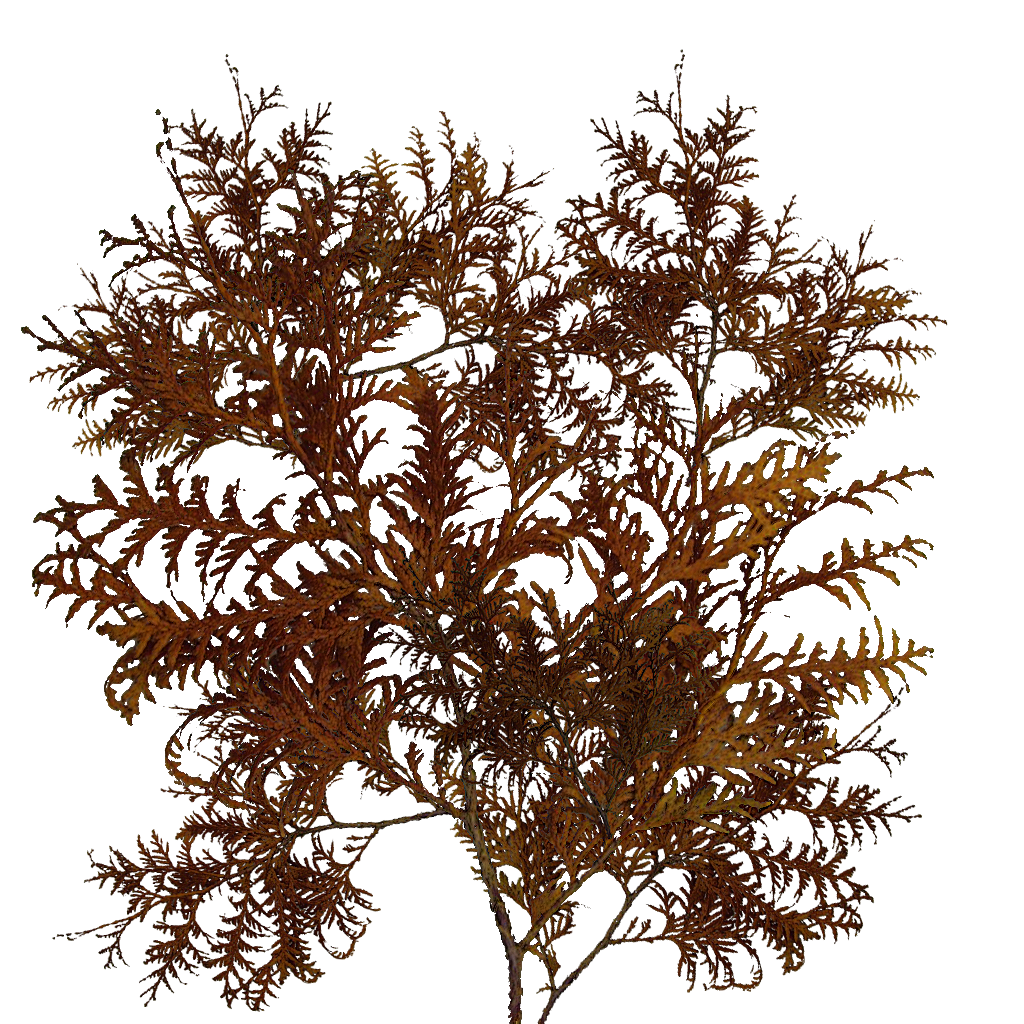
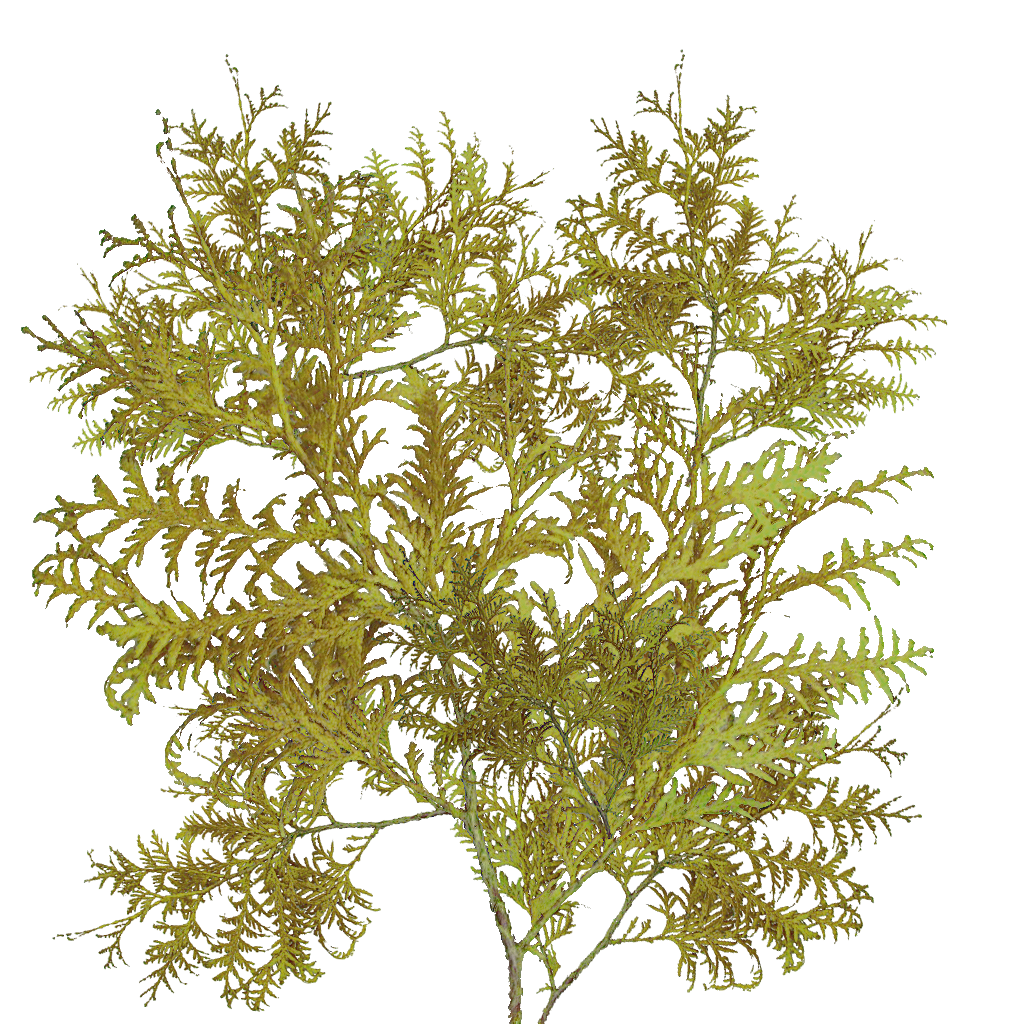
Terrain texture splatting

diff --git a/README.md b/README.md
@@ -1,7 +1,7 @@
 # Dagon Editor
 Work-in-progress scene editor for [Dagon](https://github.com/gecko0307/dagon). Based on [NG](https://github.com/gecko0307/dagon/tree/dagon-ng) branch of the engine. Editor features are not fully implemented yet, it's more of a demo sandbox for Dagon NG at the moment.
 
-[![Screenshot1](https://1.bp.blogspot.com/-qC2fIlkQA7E/XO2335jW2iI/AAAAAAAAD8I/8fqMNFd02UA74qDgkJUp0HTj_5qNyAyvQCLcBGAs/s1600/2019-05-29%2B01_20_42-Dagon%2BNG.jpg)](https://1.bp.blogspot.com/-qC2fIlkQA7E/XO2335jW2iI/AAAAAAAAD8I/8fqMNFd02UA74qDgkJUp0HTj_5qNyAyvQCLcBGAs/s1600/2019-05-29%2B01_20_42-Dagon%2BNG.jpg)
+[![Screenshot1](https://1.bp.blogspot.com/-IaDVtXOtJZw/XWG0FeJPFuI/AAAAAAAAEHQ/lk9WdRFGlegSSt0hnNLFEdGw_6XyrS7NgCLcBGAs/s1600/ng-terrain-bushes.jpg)
 
 ## Building
 Run `dub build` as usual. It is recommended to use LDC and ` --build=release-nodounds` to get the best performance.
